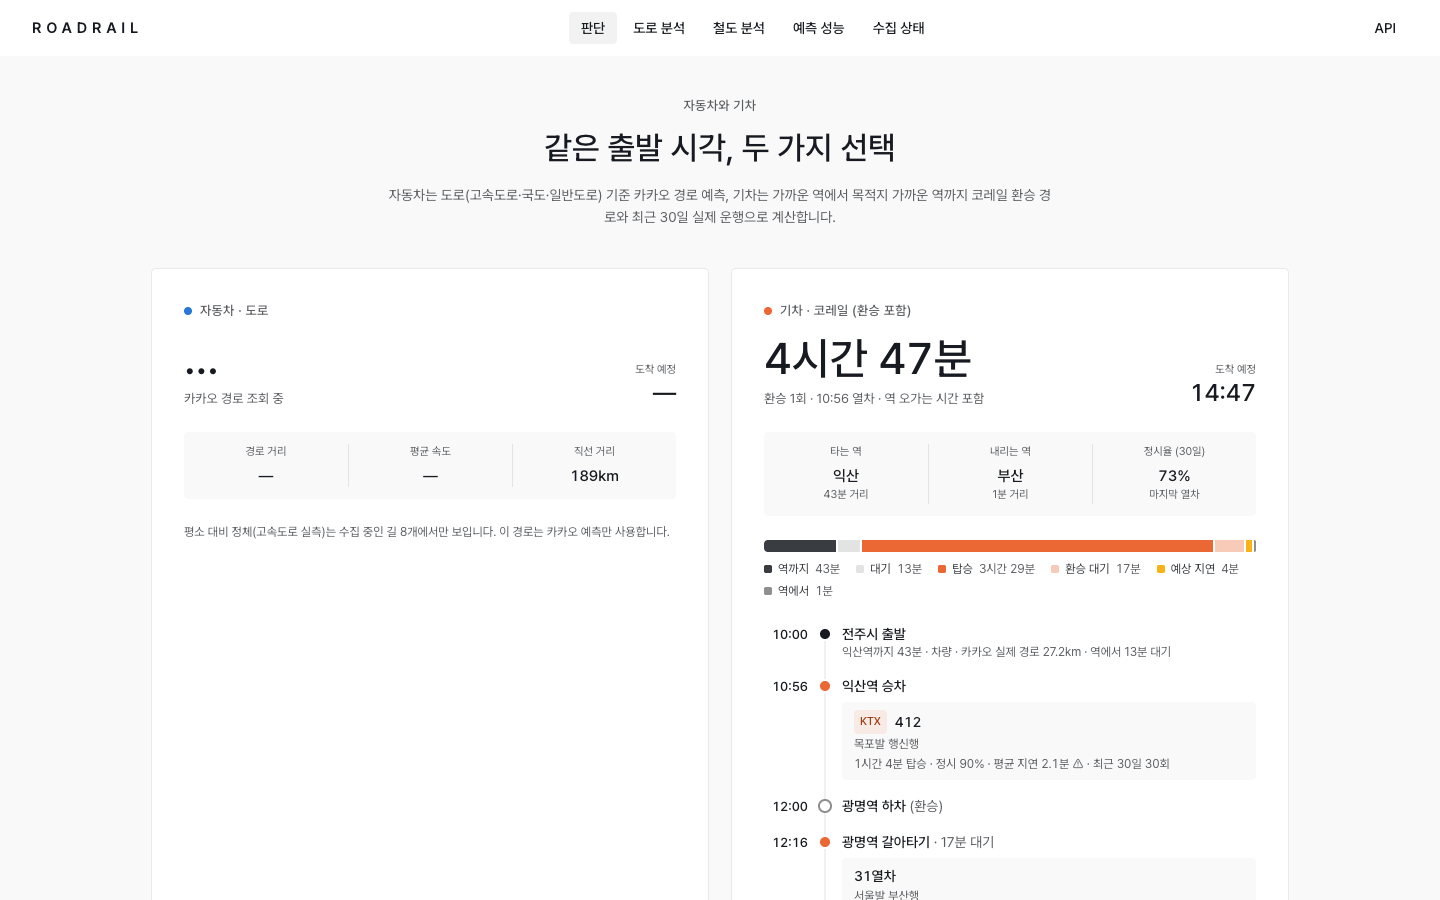
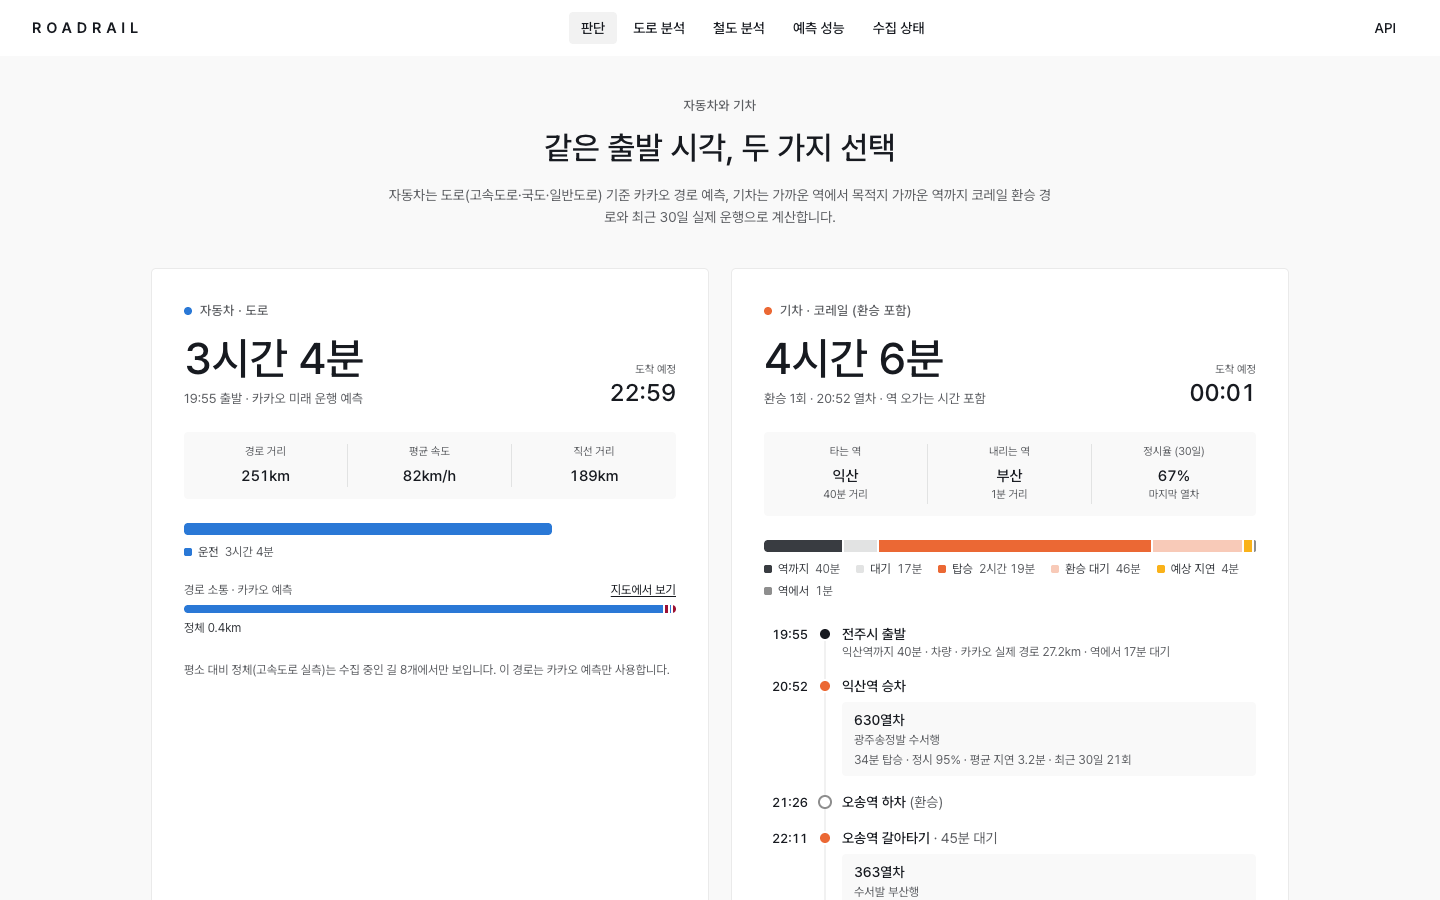
docs(readme): 스크린샷 갱신 — 경로 소통 색 · 경찰청 UTIC 돌발 · 설명을 화면에 맞춤
- 새 칸 '경로 소통 · 돌발': 서울역 → 대전역 지도의 정체 구간 색과 경로 위 돌발(도로공사 문자 · 경찰청 UTIC)
- trip.png: 예전 화면은 자동차 카드가 '카카오 경로 조회 중'인 채로 찍혔고, 설명(전주역 → 오송)과 화면의 여정(익산 → 광명)이 달랐다
  → 데이터가 온 뒤에 찍고, 설명을 찍힌 여정(익산역 → 오송 환승 → 부산역)에 맞춤
- road-route.png: 서울역 → 의정부역 평일 저녁 — 제목부터 지도 끝까지 한 화면에(정체 구간 · 범례)
- home · rail 은 지금 화면으로. road.png(추석 귀성길 기록)와 ops.png 는 그대로 둠
  (지금 ops 는 로컬 수집기를 14.8시간 멈췄던 탓에 24h 완전성이 낮아 평소 모습이 아니다)
- capture.spec: 판단 화면은 '경로 조회 중'이 사라진 뒤에 찍고, road.png 는 다시 찍지 않으며(그날의 기록),
  README 에서 쓰지 않는 home-full · forecast 는 목록에서 뺌(파일은 그대로)

diff --git a/web/e2e/capture.spec.ts b/web/e2e/capture.spec.ts
@@ -1,24 +1,58 @@
-import { test } from "@playwright/test";
+import { expect, test, type Page } from "@playwright/test";
 
 // README 스크린샷: CAPTURE=1 E2E_CHANNEL=chrome npx playwright test capture
+// 실데이터라 찍는 시각마다 경로 · 환승역 · 소통 · 돌발 건수가 달라진다 — 다시 찍으면 README 설명이 화면과 맞는지 함께 확인.
+// road.png(추석 귀성길 서울→대전 하행 6시간 24분)는 그날의 기록이라 여기서 다시 찍지 않는다.
 test.skip(!process.env.CAPTURE, "CAPTURE=1 일 때만");
 
-const shots: [string, string, boolean?][] = [
-  ["/", "home"],
-  ["/?from=%EC%A0%84%EC%A3%BC%EC%8B%9C~35.82407~127.14814~&to=%EB%B6%80%EC%82%B0%EC%97%AD~35.11520~129.04155~3900114&t=300#compare", "trip"],
-  ["/?from=%EC%A0%84%EC%A3%BC%EC%8B%9C~35.82407~127.14814~&to=%EB%B6%80%EC%82%B0%EC%97%AD~35.11520~129.04155~3900114&t=300#map", "trip-map"],
-  ["/", "home-full", true],
-  ["/road/SEL-DJN?dir=DN", "road"],
-  ["/road?from=%EA%B0%95%EB%82%A8%EC%97%AD~37.49790~127.02760~&to=%EC%A0%84%EC%A3%BC%EC%8B%9C~35.82420~127.14800~", "road-route"],
-  ["/rail?dep=3900023&arr=3900073", "rail"],
-  ["/forecast", "forecast"],
-  ["/ops", "ops"],
+const place = (name: string, lat: number, lon: number, stn = "") => encodeURIComponent(`${name}~${lat}~${lon}~${stn}`);
+const JEONJU_BUSAN = `from=${place("전주시", 35.82407, 127.14814)}&to=${place("부산역", 35.1152, 129.04155, "3900114")}`;
+const SEOUL_UIJEONGBU = `from=${place("서울역", 37.5547, 126.9707)}&to=${place("의정부역", 37.7386, 127.0459)}`;
+
+/** 판단 화면은 카카오 경로가 온 뒤에 찍는다 (예전 trip.png 는 자동차 카드가 '경로 조회 중'인 채로 찍혔다) */
+async function tripLoaded(page: Page) {
+  await expect(page.getByText("판단 근거 · R-DEC-01")).toBeVisible({ timeout: 30_000 });
+  await expect(page.getByText("카카오 경로 조회 중")).toHaveCount(0, { timeout: 30_000 });
+}
+
+const shots: { name: string; path: string; height?: number; shoot: (page: Page, file: string) => Promise<void> }[] = [
+  { name: "home", path: "/", shoot: async (page, file) => {
+    await tripLoaded(page);
+    await page.waitForTimeout(3000);
+    await page.screenshot({ path: file });
+  } },
+  { name: "trip", path: `/?${JEONJU_BUSAN}`, shoot: async (page, file) => {   // 자동차 카드(경로 소통 띠) · 기차 여정(환승)
+    await tripLoaded(page);
+    await page.locator("#compare").evaluate((el) => el.scrollIntoView());
+    await page.waitForTimeout(1500);
+    await page.screenshot({ path: file });
+  } },
+  { name: "trip-map", path: "/", shoot: async (page, file) => {   // 자동차 경로의 정체 구간 색 · 경로 위 돌발(도로공사 · 경찰청 UTIC)
+    await tripLoaded(page);
+    const map = page.locator("section#map");
+    await map.scrollIntoViewIfNeeded();
+    await page.waitForTimeout(4000);   // 지도 타일
+    await map.screenshot({ path: file });
+  } },
+  { name: "road-route", path: `/road?${SEOUL_UIJEONGBU}`, height: 1130, shoot: async (page, file) => {   // 제목부터 지도 끝까지
+    await expect(page.getByRole("heading", { name: "어떤 도로로 가나요" })).toBeVisible({ timeout: 30_000 });
+    await page.waitForTimeout(4000);
+    await page.screenshot({ path: file });
+  } },
+  { name: "rail", path: "/rail?dep=3900023&arr=3900073", shoot: async (page, file) => {
+    await page.waitForTimeout(3000);
+    await page.screenshot({ path: file });
+  } },
+  { name: "ops", path: "/ops", shoot: async (page, file) => {
+    await page.waitForTimeout(3000);
+    await page.screenshot({ path: file });
+  } },
 ];
 
-for (const [path, name, full] of shots) {
+for (const { name, path, height, shoot } of shots) {
   test(`capture ${name}`, async ({ page }) => {
+    if (height) await page.setViewportSize({ width: 1440, height });
     await page.goto(path, { waitUntil: "networkidle" });
-    await page.waitForTimeout(3000);
-    await page.screenshot({ path: `../docs/images/${name}.png`, fullPage: !!full });
+    await shoot(page, `../docs/images/${name}.png`);
   });
 }

diff --git a/README.md b/README.md
@@ -16,19 +16,20 @@
 
 <table>
 <tr>
-<td width="50%"><img src="docs/images/trip.png" alt="출발지 도착지"><br><sub><b>출발지 → 도착지</b> · 전주시 → 부산역: 카카오 자동차 경로 + 기차 여정(전주역 → 오송 환승 → 부산역, 역까지 실제 경로 · 도착역 지하철 시각)</sub></td>
+<td width="50%"><img src="docs/images/trip.png" alt="출발지 도착지"><br><sub><b>출발지 → 도착지</b> · 전주시 → 부산역: 카카오 자동차 경로(경로 소통 띠) + 기차 여정(익산역 → 오송 환승 → 부산역, 역까지 카카오 실제 경로)</sub></td>
 <td width="50%"><img src="docs/images/rail.png" alt="철도 분석"><br><sub><b>철도 분석</b> · 전국 모든 역 쌍: 서울역→대전역 최근 30일 정시율 · 지연 분포 · 요일·시간대별 · 열차 랭킹</sub></td>
 </tr>
 <tr>
-<td width="50%"><img src="docs/images/road-route.png" alt="도로 분석"><br><sub><b>도로 분석 (전국)</b> · 강남역 → 전주시: 추천 경로 vs 고속도로 회피, 출발 시각별 소요, 도로별 구성 · 소통</sub></td>
+<td width="50%"><img src="docs/images/road-route.png" alt="도로 분석"><br><sub><b>도로 분석 (전국)</b> · 서울역 → 의정부역 평일 저녁: 추천 경로 위 정체 구간을 진한 색으로(카카오 예측), 고속도로 회피 비교, 가장 빠른 출발 — 아래로 출발 시각별 소요 · 도로별 구성 · 소통</sub></td>
 <td width="50%"><img src="docs/images/road.png" alt="고속도로 실측"><br><sub><b>고속도로 실측 (길)</b> · 추석 귀성길 서울→대전 하행 11시 6시간 24분 — 영업소 구간 합 · 기준선 · 강수 예보 · 카카오 ETA</sub></td>
 </tr>
 <tr>
 <td width="50%"><img src="docs/images/ops.png" alt="수집 상태"><br><sub><b>수집 상태</b> · 작업별 최근 실행 · 24h 완전성 · 공급자별 호출 예산 · 공개 지연 · 실행 이력</sub></td>
+<td width="50%"><img src="docs/images/trip-map.png" alt="경로 소통과 돌발"><br><sub><b>경로 소통 · 돌발</b> · 서울역 → 대전역: 자동차 경로의 정체 구간(진한 색) · 기차 선로 · 경로 위 돌발 5건(도로공사 문자 1 · 경찰청 UTIC 4, 좌표 있는 안내만)</sub></td>
 </tr>
 </table>
 
-<sub>2026-09-24(추석 연휴 첫날) 로컬 실데이터로 찍은 화면입니다. 다시 찍기: `make capture`. UI 는 테슬라 홈페이지 톤의 라이트 모드(전체 화면 히어로 · 스펙 숫자 · 264px 버튼 두 개 · 투명 상단 바)입니다.</sub>
+<sub>고속도로 실측(road.png · 추석 귀성길)과 수집 상태(ops.png)는 2026-09-24~25(추석 연휴), 나머지는 2026-09-28(평일 저녁) 로컬 실데이터로 찍은 화면입니다. 다시 찍기: `make capture` — 실데이터라 찍을 때마다 경로 · 환승역 · 건수가 달라지니 위 설명과 맞는지 함께 확인하세요. UI 는 테슬라 홈페이지 톤의 라이트 모드(전체 화면 히어로 · 스펙 숫자 · 264px 버튼 두 개 · 투명 상단 바)입니다.</sub>
 
 ---
 
